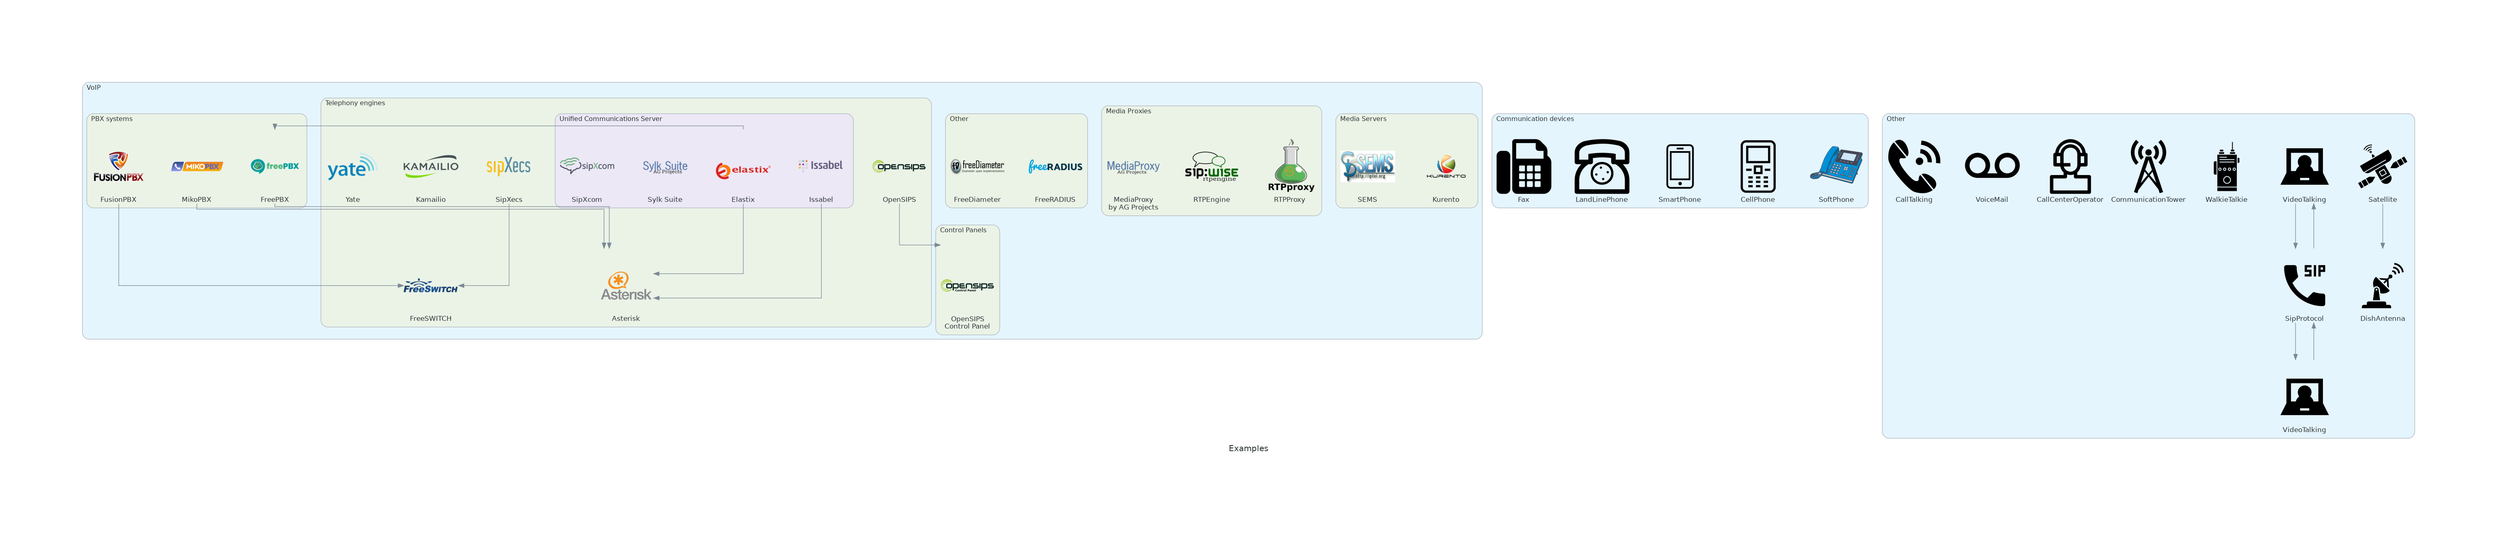
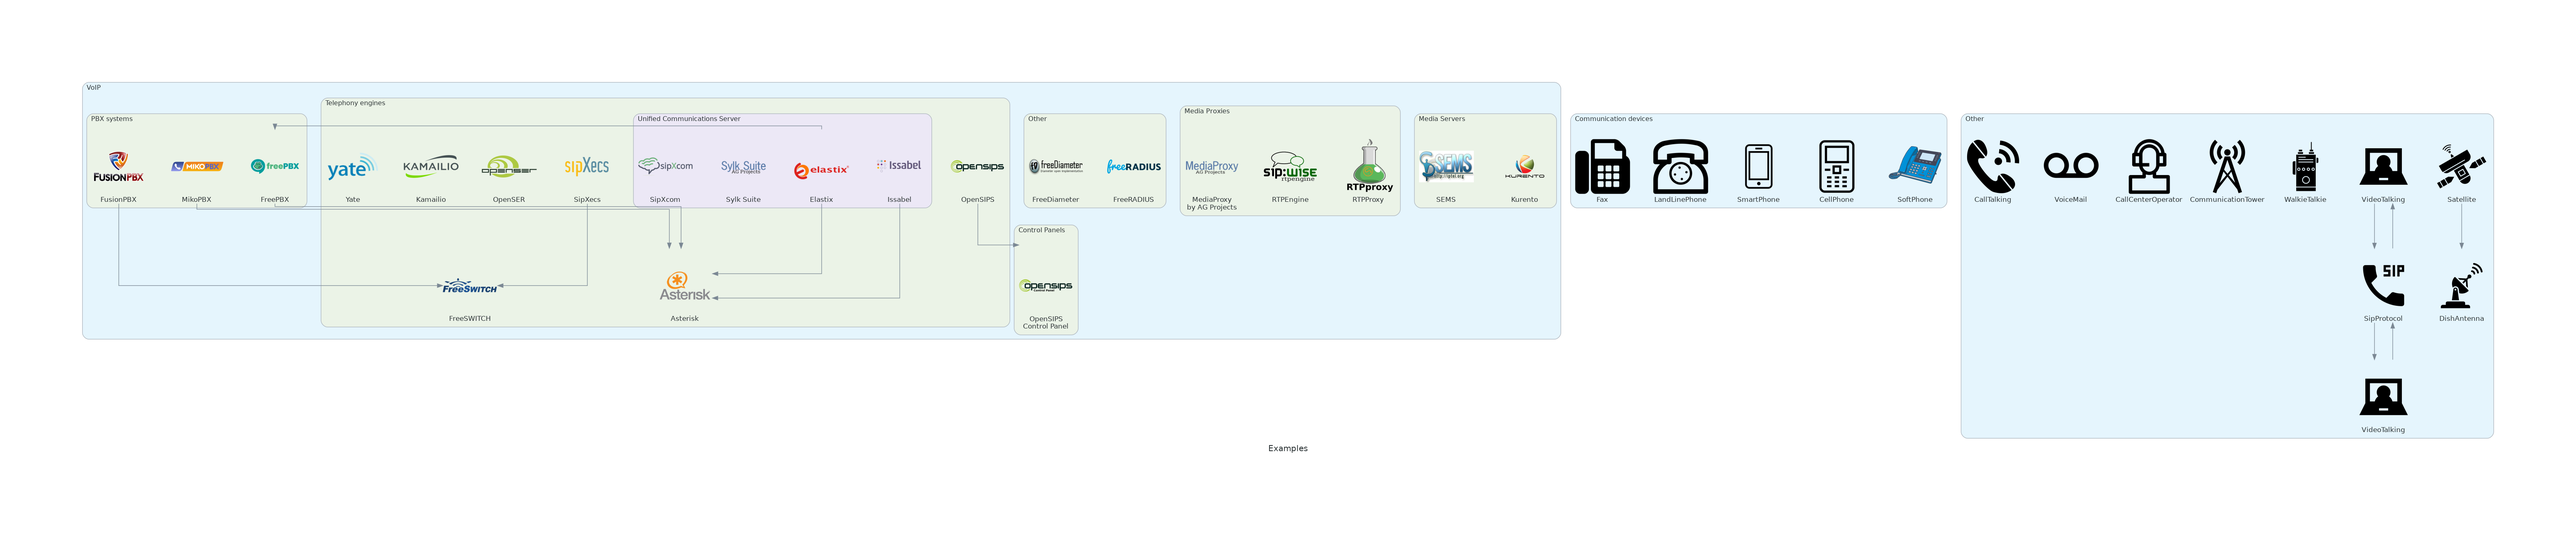
Added OpenSER
Close #2

diff --git a/examples.py b/examples.py
@@ -20,6 +20,7 @@ with Diagram('Examples', show=False, direction='TB'):
         with Cluster('Telephony engines'):
             asterisk = Asterisk('Asterisk')
             opensips = OpenSIPS('OpenSIPS')
+            openser = OpenSER('OpenSER')
             freeswitch = FreeSWITCH('FreeSWITCH')
             kamailio = Kamailio('Kamailio')
             yate = Yate('Yate')

diff --git a/telephony.py b/telephony.py
@@ -42,6 +42,10 @@ class OpenSIPS(_Telephony):
     _icon = 'opensips.png'
 
 
+class OpenSER(_Telephony):
+    _icon = 'openser.png'
+
+
 class OpenSIPSControlPanel(_Telephony):
     _icon = 'opensips_control_panel.png'
 
